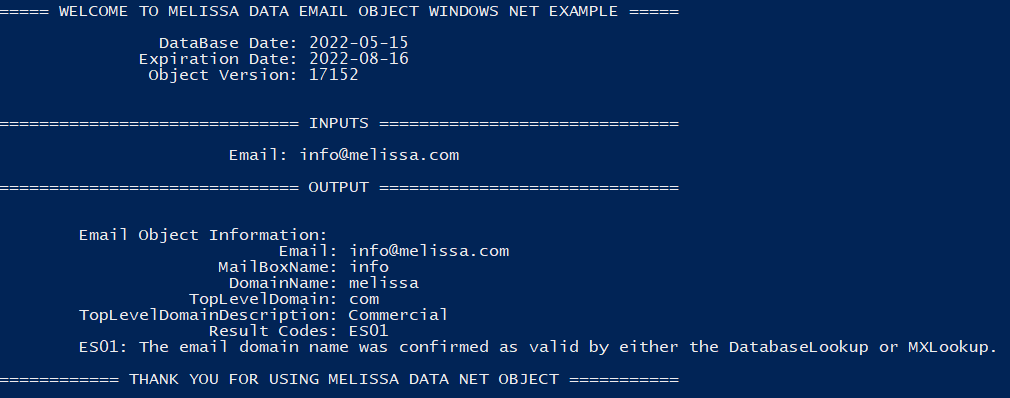
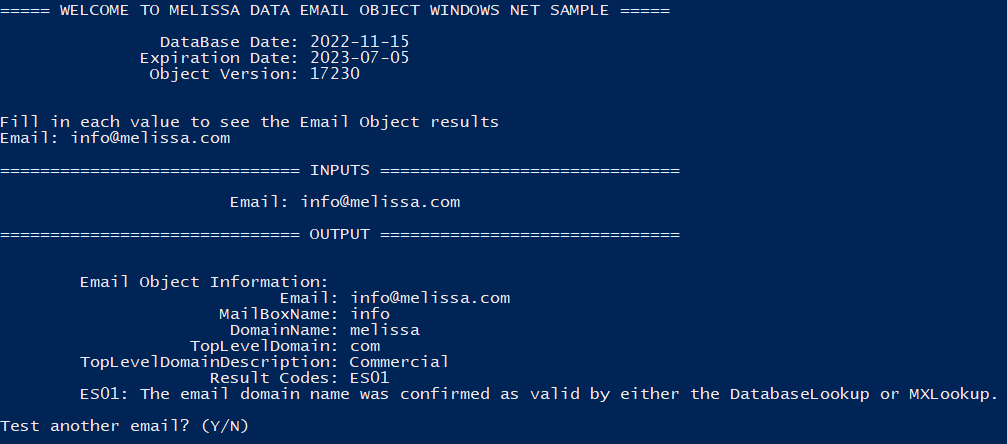
Commit C# Dotnet sample code for Email Object with .NET 6.0

diff --git a/MelissaDataEmailObjectWindowsNETSample/Program.cs b/MelissaDataEmailObjectWindowsNETSample/Program.cs
@@ -5,7 +5,7 @@ using System.IO;
 using System.Reflection;
 using MelissaData;
 
-namespace MelissaDataEmailObjectWindowsNETExample
+namespace MelissaDataEmailObjectWindowsNETSample
 {
   class Program
   {
@@ -46,12 +46,11 @@ namespace MelissaDataEmailObjectWindowsNETExample
           }
         }
       }
-
     }
 
     static void RunAsConsole(string license, string testEmail, string dataPath)
     {
-      Console.WriteLine("\n\n===== WELCOME TO MELISSA DATA EMAIL OBJECT WINDOWS NET EXAMPLE =====\n");
+      Console.WriteLine("\n\n===== WELCOME TO MELISSA DATA EMAIL OBJECT WINDOWS NET SAMPLE =====\n");
 
       EmailObject emailObject = new EmailObject(license, dataPath);
 
@@ -132,7 +131,6 @@ namespace MelissaDataEmailObjectWindowsNETExample
           }
         }
       }
-
       Console.WriteLine("\n============ THANK YOU FOR USING MELISSA DATA NET OBJECT ===========\n");
     }
   }
@@ -152,20 +150,7 @@ namespace MelissaDataEmailObjectWindowsNETExample
       mdEmailObj.SetLicenseString(license);
       dataFilePath = dataPath;
 
-      /**
-       * DatabaseDate is the date of your data files. The data files should be one month behind the DQT release.  
-       * If you are using the 2020-10-15 release, the DatabaseDate should be 2020-09-15.
-       * 
-       * If you see a different date either download the new data files or use the Melissa Updater program to
-       * update your data files. 
-       * 
-       * If 1970-00-00 is the DatabaseDate, the Email Object was unable to reach the data files.
-       * 
-       * ---------------------------READING THIS MAY SAVE YOU HOURS OF YOUR TIME-------------------------------
-       * If the DatabaseDate is not consistent with the data files and your are having issues getting results
-       * using mdEmail, it is likely a license string issue and yours may have expired.
-       */
-
+      // If you see a different date than expected, check your license string and either download the new data files or use the Melissa Updater program to update your data files.  
       mdEmailObj.SetPathToEmailFiles(dataFilePath);
       mdEmail.ProgramStatus pStatus = mdEmailObj.InitializeDataFiles();
 
@@ -180,7 +165,7 @@ namespace MelissaDataEmailObjectWindowsNETExample
       Console.WriteLine($"              Expiration Date: {mdEmailObj.GetLicenseStringExpirationDate()}");
 
       /**
-       * This number should match with file properties of the mdEmail.dll File Version.
+       * This number should match with file properties of the Melissa Data Object binary file.
        * If TEST appears with the build number, there may be a license key issue.
        */
       Console.WriteLine($"               Object Version: {mdEmailObj.GetBuildNumber()}\n");
@@ -189,7 +174,6 @@ namespace MelissaDataEmailObjectWindowsNETExample
     // This will call the lookup function to process the input email as well as generate the result codes
     public void ExecuteObjectAndResultCodes(ref DataContainer data)
     {
-
       // These are the configuarble pieces of the email object. We are setting what kind of information we want to be looked up
       mdEmailObj.SetCacheUse(1);
       mdEmailObj.SetCorrectSyntax(true);
@@ -204,7 +188,7 @@ namespace MelissaDataEmailObjectWindowsNETExample
 
       // ResultsCodes explain any issues email object has with the object.
       // List of result codes for Email object
-      // http://wiki.melissadata.com/index.php?title=Result_Code_Details#Email_Object
+      // https://wiki.melissadata.com/?title=Result_Code_Details#Email_Object
     }
   }
 

diff --git a/README.md b/README.md
@@ -1,9 +1,9 @@
-# Melissa Data Email Object Windows Net Example
+# Melissa Data Email Object Windows Net Sample
 
 
 ## Purpose
 
-This is an example of the Melissa Data Email Object using C#
+This is a sample of the Melissa Data Email Object using C#
 
 The console will ask the user for:
 
@@ -19,9 +19,9 @@ And return
 
 ## Tested Environments
 
-- Windows 64-bit .NET Core 3.1 and .NET 5.0
+- Windows 64-bit .NET 6.0, .NET 5.0, .NET Core 3.1
 - Powershell 5.1
-- Melissa data files for 2022-11
+- Melissa data files for 2022-12
 
 ## Required File(s) and Programs
 
@@ -37,28 +37,28 @@ This is the c++ code of the Melissa Data Object.
 ## Getting Started
 These instructions will get you a copy of the project up and running on your local machine for development and testing purposes.
 
-This project is compatible with both .NET Core 3.1 and .NET 5.0. If you would like to run this project for .NET 5.0, proceed with the following procedures but check for and download .NET 5.0 instead.
+This project is compatible with .NET 6.0, .NET 5.0, and .NET Core 3.1. If you would like to run this project for any other version besides .NET 6.0, proceed with the following procedures but check for and download your desired .NET version.
 
 #### Install the Dotnet Core SDK
-Before starting, make sure that the .NET Core 3.1 SDK has been correctly installed on your machine (If you have Visual Studio installed, you most likely have it already). If you are unsure, you can check by opening a command prompt window and typing the following:
+Before starting, make sure that the .NET 6.0 SDK has been correctly installed on your machine (If you have Visual Studio installed, you most likely have it already). If you are unsure, you can check by opening a command prompt window and typing the following:
 
 `dotnet --list-sdks`
 
-If the .NET Core 3.1 SDK is already installed, you should see it in the following list:
+If the .NET 6.0 SDK is already installed, you should see it in the following list:
 
 ![alt text](/screenshots/dotnet_output.PNG)
 
-As long as the above list contains version `3.1.xxx` (underlined in red), then you can skip to the next step. If your list does not contain version 3.1, or you get any kind of error message, then you will need to download and install the .NET Core 3.1 SDK from the Microsoft website.
+As long as the above list contains version `6.0.xxx` (underlined in red), then you can skip to the next step. If your list does not contain version 6.0, or you get any kind of error message, then you will need to download and install the .NET 6.0 SDK from the Microsoft website.
 
 To download, follow this link: https://dotnet.microsoft.com/en-us/download/dotnet
 
-Select `.NET Core 3.1` and you will be navigated to the download page.
+Select `.NET 6.0` and you will be navigated to the download page.
 
 Click and download the `x64` SDK installer for your operating system.
 
 (IMPORTANT: Make sure you download the SDK, NOT the runtime. The SDK contains both the runtime as well as the tools needed to build the project.)
 
-![alt text](/screenshots/microsoft_website_ss.PNG)
+![alt text](/screenshots/net6.png)
 
 Once clicked, your web browser will begin downloading an installer for the SDK. Run the installer and follow all of the prompts to complete the installation (your computer may ask you to restart before you can continue). Once all of that is done, you should be able to verify that the SDK is installed with the `dotnet --list-sdks` command.
 
@@ -96,21 +96,21 @@ Melissa Updater is a CLI application allowing the user to update their Melissa a
 	- It will handle all of the data download/path and dll(s) for you. 
 2.  If you already have the latest DQS Release (ZIP), you can find the data file(s) and dll(s) in there
 	- Use the location of where you copied/installed the data and update the "$DataPath" variable in the powershell script.
-	- Copy all the dll(s) mentioned above into the `MelissaDataEmailObjectWindowsNETExample` project folder.
+	- Copy all the dll(s) mentioned above into the `MelissaDataEmailObjectWindowsNETSample` project folder.
 
 ----------------------------------------
 
 #### Configure Target Framework
 
-Depending on your target .NET framework, you may need to configure the powershell script. In order to do this, open up the `MelissaDataEmailObjectWindowsNETExample.ps1` for editing, proceed to the bottom of the script where you will find this section of code.
+Depending on your target .NET framework, you may need to configure the powershell script. In order to do this, open up the `MelissaDataEmailObjectWindowsNETSample.ps1` for editing, proceed to the bottom of the script where you will find this section of code.
 
-Default set for .NET Core 3.1
+Default set for .NET 6.0
 ```
-#dotnet publish -f="net5.0" -c Release -o $ProjectPath\Build MelissaDataEmailObjectWindowsNETExample\MelissaDataEmailObjectWindowsNETExample.csproj
-dotnet publish -f="netcoreapp3.1" -c Release -o $ProjectPath\Build MelissaDataEmailObjectWindowsNETExample\MelissaDataEmailObjectWindowsNETExample.csproj
+dotnet publish -f="net6.0" -c Release -o $BuildPath MelissaDataEmailObjectWindowsNETSample\MelissaDataEmailObjectWindowsNETSample.csproj
+#dotnet publish -f="net5.0" -c Release -o $BuildPath MelissaDataEmailObjectWindowsNETSample\MelissaDataEmailObjectWindowsNETSample.csproj
+#dotnet publish -f="netcoreapp3.1" -c Release -o $BuildPath MelissaDataEmailObjectWindowsNETSample\MelissaDataEmailObjectWindowsNETSample.csproj
 ```
-
-The target framework is specified with the -f flag found in the command line. If you wish to use the .NET 5.0 framework, please uncomment the line containing that framework and comment out the line containing the .NET Core 3.1 framework (# to comment).
+The target framework is specified with the -f flag found in the command line. If you wish to use any version besides .NET 6.0, please uncomment the line containing that framework and comment out the line containing the .NET 6.0 framework (# to comment).
 
 ## Run Powershell Script
 
@@ -128,23 +128,23 @@ When you have modified the script to match your data location, let's run the scr
 
 	The script will prompt the user for an email address, then use the provided email to test Email object. For example:
 	```
-	$ .\MelissaDataEmailObjectWindowsNETExample.ps1
+	$ .\MelissaDataEmailObjectWindowsNETSample.ps1
 	```
     For quiet mode:
     ```
-    $ .\MelissaDataEmailObjectWindowsNETExample.ps1 -quiet
+    $ .\MelissaDataEmailObjectWindowsNETSample.ps1 -quiet
     ```
 - Command Line 
 
 	You can pass an email address in ```-email``` parameter and a license string in ```-license``` parameter to test Email object. For example:
 	```
-    $ .\MelissaDataEmailObjectWindowsNETExample.ps1 -email "info@melissa.com"
-    $ .\MelissaDataEmailObjectWindowsNETExample.ps1 -email "info@melissa.com" -license "<your_license_string>"
+    $ .\MelissaDataEmailObjectWindowsNETSample.ps1 -email "info@melissa.com"
+    $ .\MelissaDataEmailObjectWindowsNETSample.ps1 -email "info@melissa.com" -license "<your_license_string>"
     ```
 	For quiet mode:
     ```
-    $ .\MelissaDataEmailObjectWindowsNETExample.ps1 -email "info@melissa.com" -quiet
-    $ .\MelissaDataEmailObjectWindowsNETExample.ps1 -email "info@melissa.com" -license "<your_license_string>" -quiet
+    $ .\MelissaDataEmailObjectWindowsNETSample.ps1 -email "info@melissa.com" -quiet
+    $ .\MelissaDataEmailObjectWindowsNETSample.ps1 -email "info@melissa.com" -license "<your_license_string>" -quiet
     ```
 This is the expected output from a successful setup for interactive mode:
 
@@ -152,7 +152,7 @@ This is the expected output from a successful setup for interactive mode:
 
 ## Troubleshooting
 
-Troubleshooting for errors found while running your example program.
+Troubleshooting for errors found while running your sample program.
 
 ### C# Errors:
 
